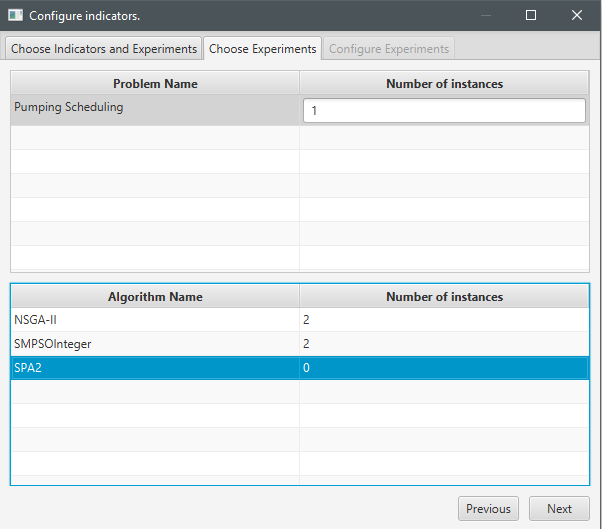
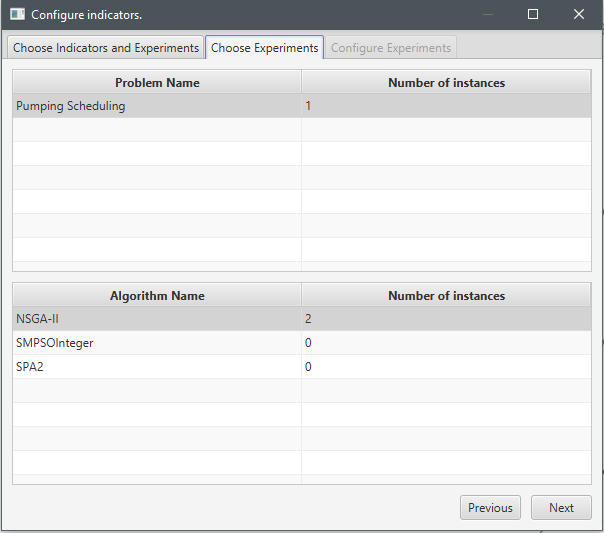
Updated manual with more info to use indicators

Changed region(s): [[0.0, 0.0, 1.0, 1.0]]

diff --git a/JHawanetFramework/docs/index.html b/JHawanetFramework/docs/index.html
@@ -2571,7 +2571,7 @@ amzn-kf8 {
 <p>Remplazar en la red cargada los valores de la solución para generar un nuevo archivo de configuración de red.</p>
 </li>
 <li>
-<p>Comparar algoritmos metaheurísticos multiobjetivos utilizando indicadores.</p>
+<p>Comparar algoritmos metaheurísticos multiobjetivos utilizando indicadores y guardar los resultados en diversos formatos.</p>
 </li>
 </ul>
 </div>
@@ -2742,7 +2742,7 @@ Al intentar descargar Java le solicitará que ingrese una cuenta de oracle. Si n
 <p><span class="image"><img src="images/instalacion/instalar_maven/probando_mvn.png" alt="probando mvn"></span></p>
 </div>
 <div class="paragraph">
-<p>Una vez maven este instalado, hay que agregar el jar de la EpanetTolkit, requerido para la simulación, al repositorio de maven como una librería. Para esto ejecute el siguiente comando:</p>
+<p>Una vez maven este instalado, hay que agregar el jar de la EpanetToolkit, requerido para la simulación, al repositorio de maven como una librería. Para esto ejecute el siguiente comando:</p>
 </div>
 <div class="listingblock">
 <div class="content">
@@ -2940,7 +2940,7 @@ NOTE: La ventaja de usar IntelliJ es que este posee un analizador de código que
 <i class="fa icon-caution" title="Caution"></i>
 </td>
 <td class="content">
-Se debe tener cuidado con el <strong>encoding</strong> de los archivos. Por defecto, el programa lee ISO-8859-1. Pero para evitar cualquier error, mejor asegurar que los archivos de red no contengan caracteres raros como ´,ñ, etc.
+Se debe tener cuidado con el <strong>encoding</strong> de los archivos. Por defecto, el programa lee y escribe en ISO-8859-1. Pero para evitar cualquier error, mejor asegurar que los archivos de red no contengan caracteres raros como ´,ñ, etc.
 </td>
 </tr>
 </table>
@@ -3326,7 +3326,7 @@ Linea_8 	N8        	N9        	850.000000	1016.000000	130.000000	0.000000  	OPEN
 <div class="sect2">
 <h3 id="_realizar_comparación_de_algoritmos_multiobjetivos">2.5. Realizar comparación de algoritmos multiobjetivos.</h3>
 <div class="paragraph">
-<p>Para comparar algoritmos multiobjetivos se debe cargar la red e ir al <span class="menuseq"><b class="menu">Indicators</b>&#160;<i class="fa fa-angle-right caret"></i> <b class="menuitem">Compare multiobjective experiments</b></span> como se muestra a continuación.</p>
+<p>Para comparar algoritmos multiobjetivos se debe cargar la red e ir a <span class="menuseq"><b class="menu">Indicators</b>&#160;<i class="fa fa-angle-right caret"></i> <b class="menuitem">Compare multiobjective experiments</b></span> como se muestra a continuación.</p>
 </div>
 <div class="paragraph">
 <p><span class="image"><img src="images/funcionalidades/indicadores/menu_indicadores.png" alt="menu indicadores"></span></p>
@@ -3360,7 +3360,7 @@ Linea_8 	N8        	N9        	850.000000	1016.000000	130.000000	0.000000  	OPEN
 <p><span class="image"><img src="images/funcionalidades/indicadores/configuracion_invalida.png" alt="configuracion invalida"></span></p>
 </div>
 <div class="paragraph">
-<p>Pero lo siguiente si, ya que los dos problemas tienen configurados los mismos algoritmos.</p>
+<p>Pero lo siguiente si es valido, ya que los dos problemas tienen configurados los mismos algoritmos.</p>
 </div>
 <div class="paragraph">
 <p><span class="image"><img src="images/funcionalidades/indicadores/configuracion_valida.png" alt="configuracion valida"></span></p>
@@ -3394,7 +3394,7 @@ Linea_8 	N8        	N9        	850.000000	1016.000000	130.000000	0.000000  	OPEN
 <i class="fa icon-caution" title="Caution"></i>
 </td>
 <td class="content">
-Asegurese todos los experimentos configurados, no importa para el problema que sean, tengan el mismo número de ejecuciones independientes. Si éste no es el caso, una excepción puede ser lanzada al momento de intentar visualizar los resultados de la simulación.
+Asegurese de que <strong>todos los experimentos configurados, no importa para el problema que sean, tengan el mismo número de ejecuciones independientes establecido</strong>. Si éste no es el caso, una excepción puede ser lanzada al momento de intentar visualizar los resultados de la simulación.
 </td>
 </tr>
 </table>
@@ -3411,6 +3411,14 @@ Asegurese todos los experimentos configurados, no importa para el problema que s
 <div class="paragraph">
 <p><span class="image"><img src="images/funcionalidades/indicadores/resultadofinal.png" alt="resultadofinal"></span></p>
 </div>
+<div class="sect3">
+<h4 id="_guardar_los_resultados_de_los_indicadores">2.5.1. Guardar los resultados de los indicadores</h4>
+<div class="paragraph">
+<p>Puede que necesite guardar los resultados de la comparación que son mostrados al finalizar la ejecución de todos los experimentos utilizados. Para ello, en la pestaña de visualización de los resultados se encuentra un boton que permitirá indicar el directorio donde respaldarlos, como se muestra en la siguiente imagen.</p>
+</div>
+<div class="paragraph">
+<p><span class="image"><img src="images/funcionalidades/indicadores/save_indicators.png" alt="save indicators"></span></p>
+</div>
 <div class="admonitionblock note">
 <table>
 <tr>
@@ -3419,7 +3427,7 @@ Asegurese todos los experimentos configurados, no importa para el problema que s
 </td>
 <td class="content">
 <div class="paragraph">
-<p>Puede que necesite guardar los resultados de la comparación, estos resultados se almacenan automaticamente en una carpeta temporal llamada "<strong>temp</strong>" en el directorio en el que se ejecuto la aplicación. El nombre de la carpeta es generado aleatoriamente.</p>
+<p>Durante la ejecución de la comparación los resultados de los algoritmos y el valor de los indicadores son guardados dentro de una subcarpeta de la carpeta "<strong>temp</strong>". Esta carpeta se encuentra en el directorio en el que se ejecuto la aplicación. El nombre de cada carpeta dentro del directorio "<strong>temp</strong>"" es generado aleatoriamente y se crean cada vez que se ejecuta un experimento multiobjetivo o una comparación de indicadores. Los resultados guardados por el boton mencionado anteriormente, es una copia de la carpeta que se encuentra en este directorio. A continuación se muestra un ejemplo del contenido de la carpeta "<strong>temp</strong>" para una de las ejecuciones.</p>
 </div>
 <div class="paragraph">
 <p><span class="image"><img src="images/funcionalidades/indicadores/carpeta_temporal.png" alt="carpeta temporal"></span></p>
@@ -3430,6 +3438,7 @@ Asegurese todos los experimentos configurados, no importa para el problema que s
 </div>
 <div class="paragraph">
 <p>Para más detalles sobre como funcionan los indicadores pulse <a href="#_como_agregar_nuevos_indicadores">Como agregar nuevos indicadores</a></p>
+</div>
 </div>
 </div>
 </div>
@@ -4494,7 +4503,7 @@ Los indicadores deben tener un constructor que no reciba parametros. Este constr
 </div>
 </div>
 <div class="paragraph">
-<p>Los indicadores implementados pueden ser utilizados por todos los algoritmos que se encuentran en la variable <strong><em>MULTIOBJECTIVES_PROBLEMS</em></strong>.</p>
+<p>Los indicadores implementados pueden ser utilizados por todos los experimentos que se encuentran en la variable <strong><em>MULTIOBJECTIVES_PROBLEMS</em></strong>.</p>
 </div>
 <div class="paragraph">
 <p>El siguiente código muestra como ejemplo la implementación del indicador Epsilon.</p>
@@ -4605,6 +4614,39 @@ public class Epsilon&lt;S extends Solution&lt;?&gt;&gt; extends GenericIndicator
             "Objective1: energy cost\n" +
             "Objective2: maintenance Cost")</code></pre>
 </div>
+</div>
+<div class="paragraph">
+<p>Basado en los valores de la anotación <em>@NewProblem</em> se realiza las validaciones. Las validaciones realizadas son las siguientes:</p>
+</div>
+<div class="ulist">
+<ul>
+<li>
+<p>Si hay solo un problema establecido (el valor es mayor a 0):</p>
+<div class="ulist">
+<ul>
+<li>
+<p>Tiene que haber 2 instancias de algoritmo. Por ejemplo, dos del mismo tipo (Un algoritmo con el valor asociado en 2 o más, imagen de la izquierda) o de diferentes tipos (dos algoritmos cada uno con el valor asociado en 1, imagen de la derecha). Como se muestra a continuación.</p>
+<div class="paragraph">
+<p><span class="image"><img src="images/funcionalidades/indicadores/configuracion_valida_algoritmo.png" alt="configuracion valida algoritmo"></span></p>
+</div>
+</li>
+</ul>
+</div>
+</li>
+<li>
+<p>Si hay mas de un problema configurado:</p>
+<div class="ulist">
+<ul>
+<li>
+<p>Se tiene que usar los mismos algoritmos para cada problema y con el mismo valor establecido. A continuación se muestran 2 problemas configurados y los algoritmos con los que seran abordado cada uno de ellos.</p>
+<div class="paragraph">
+<p><span class="image"><img src="images/funcionalidades/indicadores/configuracion_valida.png" alt="configuracion valida"></span></p>
+</div>
+</li>
+</ul>
+</div>
+</li>
+</ul>
 </div>
 </div>
 <div class="sect2">
@@ -5102,7 +5144,7 @@ double[] maxTank = config.getDoubleArray("maxTank"); // lee {10, 5};</code></pre
 </div>
 <div id="footer">
 <div id="footer-text">
-Last updated 2020-11-19 15:15:05 -0300
+Last updated 2020-11-23 15:40:59 -0300
 </div>
 </div>
 <link rel="stylesheet" href="https://cdnjs.cloudflare.com/ajax/libs/prettify/r298/prettify.min.css">
